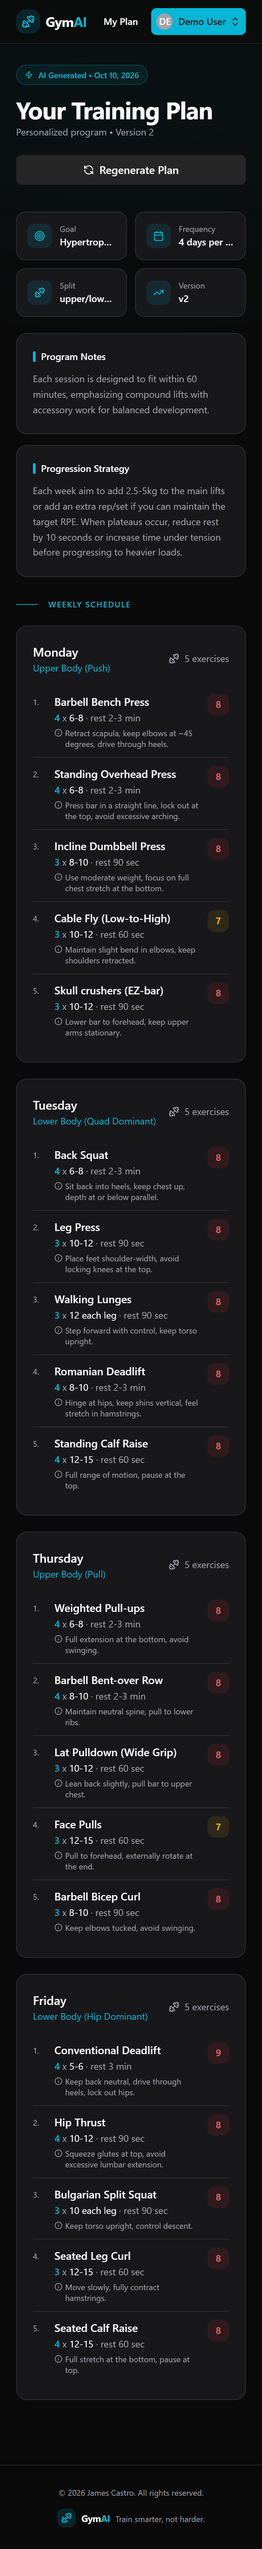
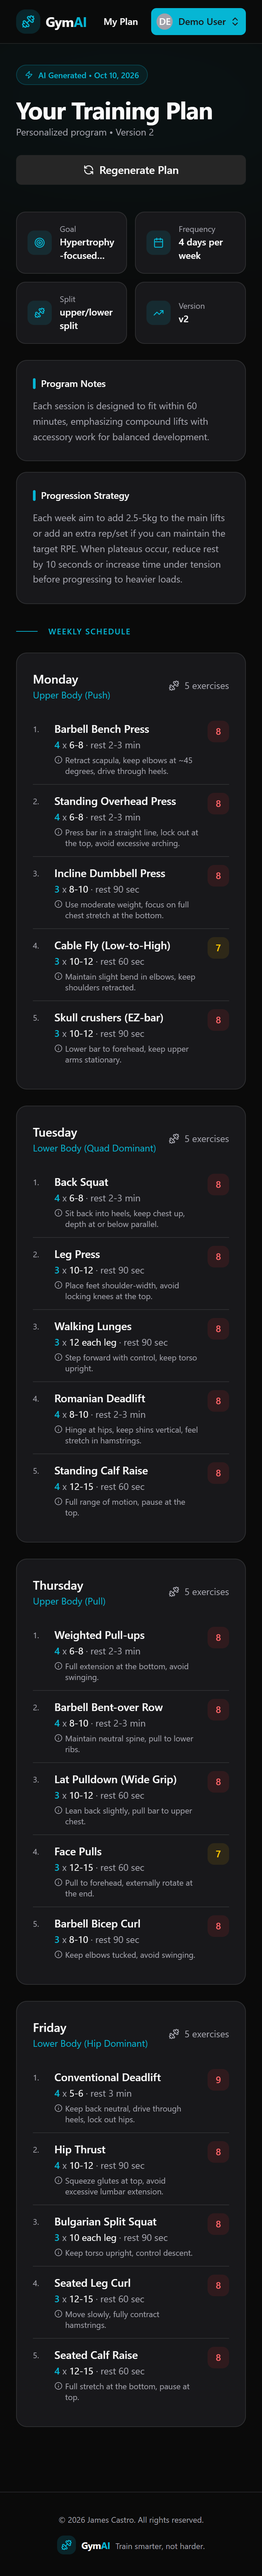
fix(web): let plan stat cards wrap onto two lines
On a phone the two-column stat cards cut values off ("Hypertrop...", "4 days per ..."). Clamp to two lines instead of one; the tap/hover tooltip still shows the full value for long ones. Refreshes the three screenshots that show the cards.

diff --git a/src/components/plan/PlanSections.tsx b/src/components/plan/PlanSections.tsx
@@ -49,7 +49,7 @@ export function PlanSections({
                 {stat.label}
               </p>
               <p
-                className="text-sm font-semibold truncate cursor-default"
+                className="text-sm font-semibold line-clamp-2 wrap-anywhere cursor-default"
                 style={{ color: "var(--color-foreground)" }}
                 onMouseEnter={(e) => {
                   const rect = e.currentTarget.getBoundingClientRect();
